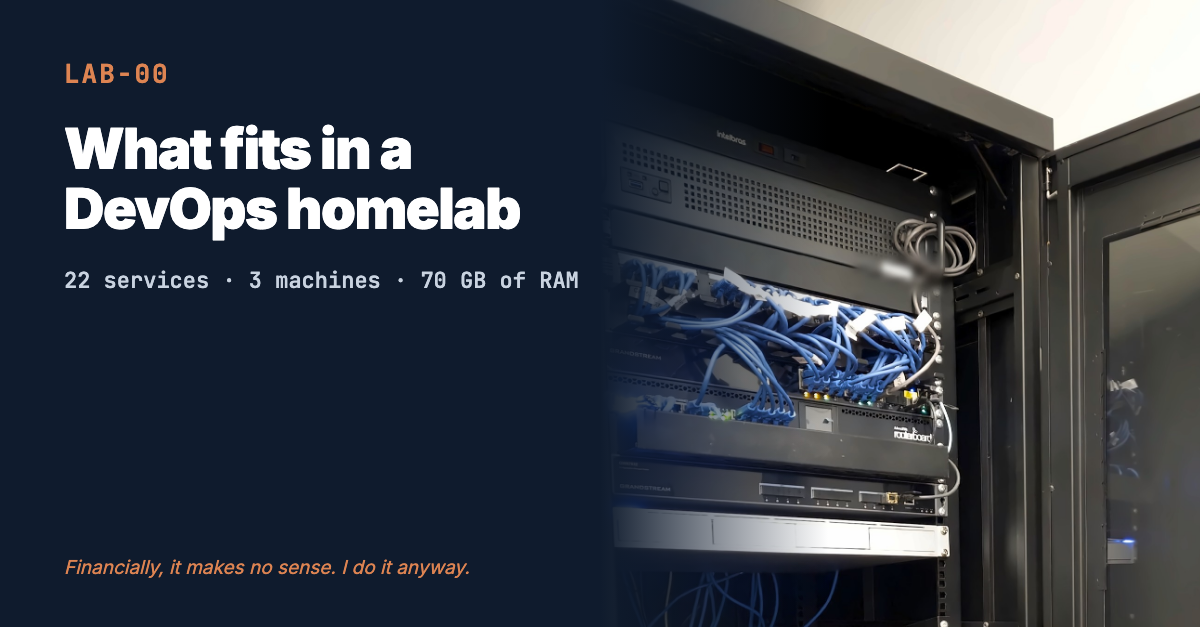
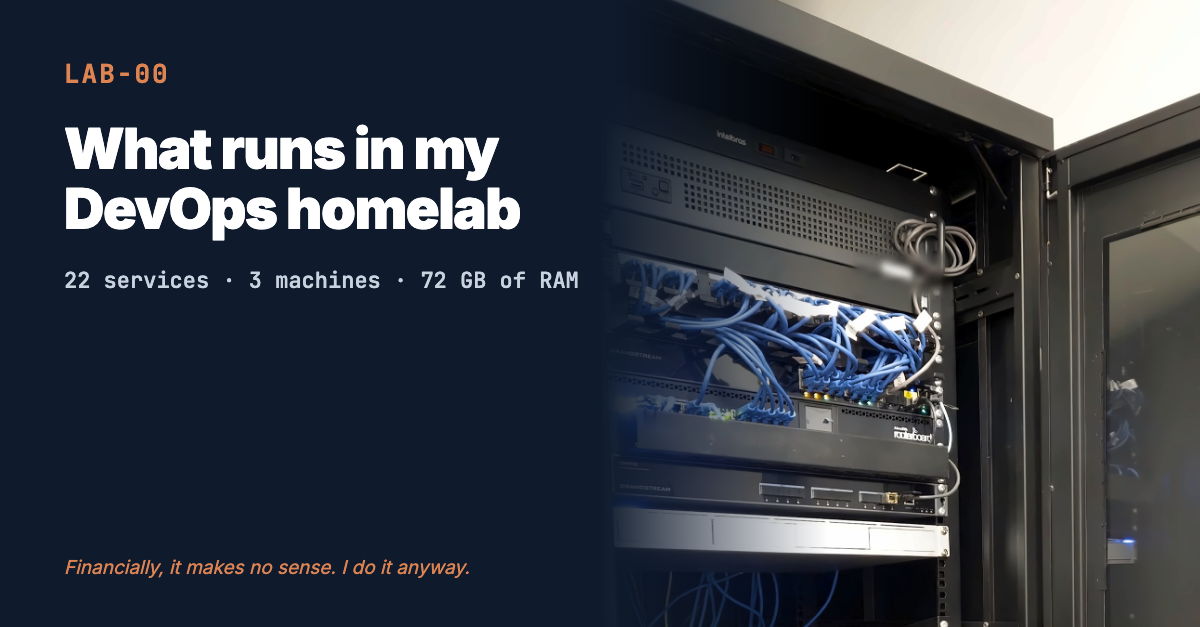
LAB-00: passa a dizer o que roda (com o Frigate), novo título, capa com a RAM correta e referências

Changed region(s): [[0.185, 0.1818, 0.4317, 0.303]]

diff --git a/_posts/2026-11-13-homelab-apresentacao-pt.md b/_posts/2026-11-13-homelab-apresentacao-pt.md
@@ -1,9 +1,9 @@
 ---
-title: "LAB-00: o que cabe num homelab de DevOps"
+title: "LAB-00: o que roda no meu homelab de DevOps"
 lang: pt-BR
 permalink: /pt/2026/11/13/homelab-apresentacao/
-description: "22 serviços em 3 máquinas, duas delas com Celeron e 4 GB de RAM, mais 32 GB de VRAM para modelos locais. O mapa do laboratório que alimenta esta série."
-resumo: "O mapa do meu homelab: 22 serviços em 3 máquinas, duas delas com Celeron e 4 GB de RAM, mais 32 GB de VRAM para modelos locais. Financeiramente não faz sentido; faço mesmo assim."
+description: "Fotos, arquivos, mídia, câmeras (Frigate), IA local, monitoramento e dois clusters Kubernetes: o que roda em 3 nós Proxmox, um NAS e uma workstation, com 22 serviços ligados e 72 GB de RAM."
+resumo: "O que roda no meu homelab: fotos, arquivos, mídia, câmeras (Frigate), IA local, monitoramento e dois clusters Kubernetes, em 3 nós Proxmox, um NAS e uma workstation. Financeiramente não faz sentido; faço mesmo assim."
 image: /assets/img/homelab-apresentacao/cover-pt.png
 ---
 
@@ -31,12 +31,30 @@ Este post é o mapa. Os próximos 12 mostram o que medi nele, incluindo o que de
 
 - Os três nós somam 16 threads e 72 GB de RAM instalada. Dois deles são Celeron N4020 com 4 GB cada: rodam 16 serviços leves e nada mais.
 - Toda a carga pesada está em um nó (Ryzen 5 5600G, 64 GB): duas GPUs para modelos locais, o roteador semântico, o monitoramento e as duas VMs dos clusters Kubernetes. **Esse nó nem sempre fica ligado.** Os dois menores ficam ligados 24 horas por dia.
+- O Frigate (NVR com detecção de objetos) é um dos serviços mais importantes para mim e está desligado hoje, justamente porque mora no Nó C.
 - A GPU mais rápida (RX 7900 XTX, 24 GB) **não faz parte do laboratório**: é a minha workstation. Ela entra no roteador quando está ligada e também é o meu servidor de streaming de jogos: roda o Sunshine, e eu jogo de qualquer ponto da casa com o Moonlight. Um dos clientes é um mini PC com Celeron, igual aos nós, que dá boot direto num compositor Wayland leve e dedicado a isso. Ele merece um post só dele.
 - A rede é gigabit, com um roteador MikroTik RB3011 e VLANs que separam cinco redes: dispositivos móveis, servidores, administração, segurança e IoT. Existe um switch de 10 Gb (Grandstream GWN7832, 12 portas SFP+) parado, sem uso: os nós têm placas de 1 Gb, então nada aqui aproveitaria o 10G.
 - O NAS é um Ubiquiti UNVR, um gravador de vídeo de rede de 4 baias, convertido em NAS: Linux com dois pools, um de armazenamento lento (dois HDs) e um rápido (dois SSDs), ambos em RAID 1.
 - Um MacBook Air com a tela quebrada e sem saída de vídeo pelas portas USB-C faz dois papéis: roda o Jellyfin (servidor de mídia) e é a minha workstation remota. É nele que eu centralizo o trabalho, acesso de fora, conecto o VS Code e uso um assistente de IA com várias skills e MCPs, com contas somente leitura no Kubernetes para a gerência. Ele e o NAS não entram na contagem de 22 serviços, que são guests do Proxmox.
 - Os dois "clusters" Kubernetes são VMs de nó único no mesmo host. O multicluster do Istio é real, a escala não.
 - O consumo de energia já está medido por tomada inteligente: em 13/11, às 20h, o rack inteiro gastava 172 W, dos quais 75 W eram do Nó C. Os números mensais e o custo saem no post 10.
+
+## O que roda aqui
+
+Estes são os serviços que eu uso de verdade, agrupados pelo que fazem. Os 22 serviços da contagem são os que estavam ligados em 13/11/2026. O Frigate fica fora dessa conta porque está desligado hoje, mas entra aqui porque é um dos serviços mais importantes para mim.
+
+| Camada | O que roda | Onde |
+|---|---|---|
+| Dados pessoais | Immich (fotos), Nextcloud (arquivos) e Syncthing (sincronização das minhas notas), com os dados no NAS | Nós A e B |
+| Mídia | Jellyfin e a automação da biblioteca (legendas, pedidos, organização) | Mac e nós A e B |
+| Vigilância | **Frigate**, um NVR com detecção de objetos e acesso à GPU do nó, para as câmeras de segurança | Nó C (hoje desligado) |
+| IA local | llama.cpp com um modelo de 35 bilhões de parâmetros, roteador semântico com failover e busca semântica (RAG) sobre as minhas notas | Nó C e workstation |
+| Rede e acesso | proxy reverso, DNS com bloqueio de anúncios, gerenciador de senhas e um painel de entrada | Nó A |
+| Observabilidade | Prometheus, Grafana (9 dashboards), Jaeger e avisos no celular (ntfy) | Nós B e C |
+| Plataforma | dois clusters k0s com Cilium, Istio multicluster e Flagger, e um registro de contêineres | Nó C (clusters) e Nó A (registro) |
+| Jogos | Sunshine na workstation e Moonlight nos clientes, de qualquer cômodo da casa | Workstation |
+
+O Frigate mora no Nó C, que nem sempre fica ligado (veja os Limites). Por isso ele está parado hoje, apesar de ser um serviço que eu quero ligado.
 
 ## Ambiente
 
@@ -83,13 +101,6 @@ Cluster Kubernetes "a" (versões lidas em 13/11/2026): k0s 1.36.4 com um nó, Ci
 <figcaption>A workstation convidada, com a RX 7900 XTX de 24 GB.</figcaption>
 </figure>
 
-## Quatro camadas
-
-1. **IA local.** Um modelo de 35 bilhões de parâmetros (Qwen3.6-35B-A3B, quantização Q4_K_M) dividido nas duas GPUs de 16 GB, atrás de um roteador semântico que também usa a workstation quando ela está ligada.
-2. **Operação.** Prometheus, Grafana e avisos no celular.
-3. **Dados e sincronização.** Busca semântica sobre as minhas notas e sincronização entre sub-redes.
-4. **Experimentos.** Dois clusters k0s com Istio multicluster, onde rodam os estudos de detecção de falha.
-
 ## O que já deu errado (os cabelos brancos)
 
 | Sintoma | Causa | Post |
@@ -109,6 +120,7 @@ Regras da série: todo número tem script e dado bruto; resultado negativo entra
 - A contagem de 22 serviços considera guests ligados em 13/11/2026, com o Nó C ligado. Os 16 serviços dos nós A e B ficam ligados 24 horas por dia. Os 6 do Nó C só existem quando ele está ligado, e ele nem sempre está: pelo consumo na tomada, em outubro ele ficou ligado o equivalente a cerca de um terço do mês (estimativa, a 75 W). Outros guests estão parados e ficam fora.
 - Os números de RAM e disco são dos hospedeiros, não dos guests.
 - O cluster "b" não foi inspecionado nesta data; as versões acima são do cluster "a".
+- Sobre o Frigate, só descrevo o que está configurado: não medi nada dele (número de câmeras, retenção, carga) e ele está desligado.
 - Não testei o isolamento entre as VLANs: descrevo a separação, não a verifiquei com testes.
 - Não medi temperatura nem disponibilidade ao longo do tempo. O consumo de energia foi medido só em tomada inteligente, sem carga de inferência.
 
@@ -118,6 +130,8 @@ Regras da série: todo número tem script e dado bruto; resultado negativo entra
 - k0s: <https://k0sproject.io/>
 - Istio multicluster: <https://istio.io/latest/docs/setup/install/multicluster/>
 - llama.cpp: <https://github.com/ggml-org/llama.cpp>
+- Frigate: <https://frigate.video/>
+- Sunshine e Moonlight: <https://github.com/LizardByte/Sunshine> e <https://moonlight-stream.org/>
 
 ---
 

diff --git a/_posts/2026-11-13-homelab-apresentacao-en.md b/_posts/2026-11-13-homelab-apresentacao-en.md
@@ -1,9 +1,9 @@
 ---
-title: "LAB-00: what fits in a DevOps homelab"
+title: "LAB-00: what runs in my DevOps homelab"
 lang: en
 permalink: /en/2026/11/13/homelab-apresentacao/
-description: "22 services on 3 machines, two of them Celerons with 4 GB of RAM, plus 32 GB of VRAM for local models. The map of the lab behind this series."
-resumo: "The map of my homelab: 22 services on 3 machines, two of them Celerons with 4 GB of RAM, plus 32 GB of VRAM for local models. Financially it makes no sense; I do it anyway."
+description: "Photos, files, media, cameras (Frigate), local AI, monitoring and two Kubernetes clusters: what runs on 3 Proxmox nodes, a NAS and a workstation, with 22 services running and 72 GB of RAM."
+resumo: "What runs in my homelab: photos, files, media, cameras (Frigate), local AI, monitoring and two Kubernetes clusters, on 3 Proxmox nodes, a NAS and a workstation. Financially it makes no sense; I do it anyway."
 image: /assets/img/homelab-apresentacao/cover-en.png
 ---
 
@@ -31,12 +31,30 @@ This post is the map. The next 12 show what I measured on it, including what wen
 
 - The three nodes add up to 16 threads and 72 GB of installed RAM. Two of them are Celeron N4020 machines with 4 GB each: they run 16 light services and nothing else.
 - All the heavy load sits on one node (Ryzen 5 5600G, 64 GB): two GPUs for local models, the semantic router, monitoring and the two Kubernetes cluster VMs. **That node is not always on.** The two smaller ones run 24 hours a day.
+- Frigate (an NVR with object detection) is one of the services that matter most to me and is off today, precisely because it lives on Node C.
 - The fastest GPU (RX 7900 XTX, 24 GB) is **not part of the lab**: it is my workstation. It joins the router when powered on and is also my game-streaming server: it runs Sunshine, and I play from anywhere in the house with Moonlight. One of the clients is a Celeron mini PC, like the nodes, that boots straight into a light Wayland compositor dedicated to that. It deserves a post of its own.
 - The network is gigabit, with a MikroTik RB3011 router and VLANs that split five networks: mobile devices, servers, administration, security and IoT. There is an idle 10 Gb switch (Grandstream GWN7832, 12 SFP+ ports), unused: the nodes have 1 Gb NICs, so nothing here would use the 10G.
 - The NAS is a Ubiquiti UNVR, a 4-bay network video recorder, converted into a NAS: Linux with two pools, one of slow storage (two HDDs) and one fast (two SSDs), both on RAID 1.
 - A MacBook Air with a broken screen and no video output over its USB-C ports plays two roles: it runs Jellyfin (media server) and it is my remote workstation. It is where I centralize my work, reach in from outside, connect VS Code and use an AI assistant with many skills and MCPs, with read-only Kubernetes accounts for management. It and the NAS are not part of the 22-service count, which are Proxmox guests.
 - The two Kubernetes "clusters" are single-node VMs on the same host. The Istio multicluster setup is real, the scale is not.
 - Power draw is now measured with a smart plug: on 2026-11-13 at 8 pm the whole rack drew 172 W, of which 75 W was Node C. Monthly figures and cost come in post 10.
+
+## What runs here
+
+These are the services I actually use, grouped by what they do. The 22 services in the count are the ones that were running on 2026-11-13. Frigate is outside that count because it is off today, but it is here because it is one of the services that matter most to me.
+
+| Layer | What runs | Where |
+|---|---|---|
+| Personal data | Immich (photos), Nextcloud (files) and Syncthing (syncing my notes), with the data on the NAS | Nodes A and B |
+| Media | Jellyfin and the library automation (subtitles, requests, organization) | Mac and nodes A and B |
+| Surveillance | **Frigate**, an NVR with object detection and access to the node's GPU, for the security cameras | Node C (off today) |
+| Local AI | llama.cpp with a 35-billion-parameter model, a semantic router with failover and semantic search (RAG) over my notes | Node C and workstation |
+| Network and access | reverse proxy, ad-blocking DNS, a password manager and a landing dashboard | Node A |
+| Observability | Prometheus, Grafana (9 dashboards), Jaeger and phone alerts (ntfy) | Nodes B and C |
+| Platform | two k0s clusters with Cilium, multicluster Istio and Flagger, plus a container registry | Node C (clusters) and Node A (registry) |
+| Games | Sunshine on the workstation and Moonlight on the clients, from any room in the house | Workstation |
+
+Frigate lives on Node C, which is not always on (see Limits). That is why it is stopped today, even though it is a service I want running.
 
 ## Environment
 
@@ -83,13 +101,6 @@ Kubernetes cluster "a" (versions read on 2026-11-13): k0s 1.36.4 with one node, 
 <figcaption>The guest workstation, with the 24 GB RX 7900 XTX.</figcaption>
 </figure>
 
-## Four layers
-
-1. **Local AI.** A 35-billion-parameter model (Qwen3.6-35B-A3B, Q4_K_M quantization) split across the two 16 GB GPUs, behind a semantic router that also uses the workstation when it is on.
-2. **Operations.** Prometheus, Grafana and phone alerts.
-3. **Data and sync.** Semantic search over my notes and sync across subnets.
-4. **Experiments.** Two k0s clusters with multicluster Istio, where the failure-detection studies run.
-
 ## What has already gone wrong (the grey hair)
 
 | Symptom | Cause | Post |
@@ -109,6 +120,7 @@ Series rules: every number has a script and raw data; negative results go in the
 - The count of 22 services is guests running on 2026-11-13, with Node C on. The 16 services on nodes A and B run 24 hours a day. The 6 on Node C only exist while it is on, and it is not always on: from plug consumption, in October it was on the equivalent of about a third of the month (estimate, at 75 W). Other guests are stopped and left out.
 - RAM and disk figures are for the hosts, not the guests.
 - Cluster "b" was not inspected on this date; the versions above are from cluster "a".
+- For Frigate I only describe what is configured: I measured nothing about it (camera count, retention, load) and it is off.
 - I did not test isolation between the VLANs: I describe the separation, I did not verify it with tests.
 - I did not measure temperature or availability over time. Power was measured only with a smart plug, with no inference load.
 
@@ -118,6 +130,8 @@ Series rules: every number has a script and raw data; negative results go in the
 - k0s: <https://k0sproject.io/>
 - Istio multicluster: <https://istio.io/latest/docs/setup/install/multicluster/>
 - llama.cpp: <https://github.com/ggml-org/llama.cpp>
+- Frigate: <https://frigate.video/>
+- Sunshine and Moonlight: <https://github.com/LizardByte/Sunshine> and <https://moonlight-stream.org/>
 
 ---
 
